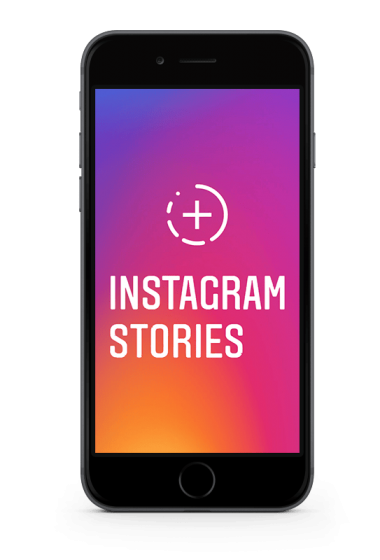
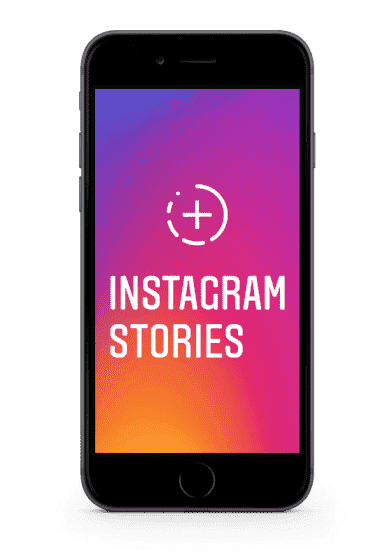
Client modification #1 + imgs compression.

diff --git a/src/index.html b/src/index.html
@@ -23,7 +23,7 @@
       <span>King Eagle</span>
     </a>
     <div class="social-media">
-      <a href="https://www.instagram.com/" target="_blank">
+      <a href="https://www.instagram.com/soufianboulhia/" target="_blank">
         <i class="fa-brands fa-instagram fa-shake instagram-icon"></i>
       </a>
       <a href="https://web.whatsapp.com/" target="_blank">
@@ -185,27 +185,27 @@
     <div class="information">
       <div class="profil">
         <img src="./images/personal-img.jpg" alt="personal-img">
-        <p>Soufiane <strong>Boul7ya</strong></p>
+        <p>Soufiane <strong>Boulhia</strong></p>
         <span>Graphic Designer</span>
       </div>
       <div class="contact-info">
         <div class="contact">
           <i class="fa-solid fa-phone phone-icon"></i>
-          <p>06 54 32 10 12</p>     
+          <p>06 39 05 74 97</p>     
         </div>
         <div class="contact">
           <i class="fa-solid fa-envelope email-icon"></i>
-          <p>soufiane.boul7ya@gmail.com</p>
+          <p>soufianeboulhia13@gmail.com</p>
         </div>
-        <div class="contact">
+        <!-- <div class="contact">
           <i class="fa-solid fa-globe website-icon"></i>
           <p>www.king-eagle.online</p>
-        </div>
+        </div> -->
       </div>
     </div>
     <!-- social media -->
     <div class="social-media">
-      <a href="https://www.instagram.com/" target="_blank">
+      <a href="https://www.instagram.com/soufianboulhia/" target="_blank">
         <i class="fa-brands fa-instagram fa-shake instagram-icon"></i>
       </a>
       <a href="https://web.whatsapp.com/" target="_blank">

diff --git a/src/scss/layout/footer.scss b/src/scss/layout/footer.scss
@@ -10,7 +10,7 @@ footer{
 
   .information{
     display: flex;
-    justify-content: space-evenly;
+    justify-content: center;
     align-items: center;
     flex-wrap: wrap;
     gap: 4rem;
@@ -33,14 +33,11 @@ footer{
     }
     .contact-info{
       display: flex;
-      justify-content: flex-start;
+      justify-content: center;
       align-items: center;
       flex-wrap: wrap;
       gap: 4rem;
-      @include breakpoint-max-width(large){
-        justify-content: center;
-        gap: 1.5rem;
-      }
+      @include breakpoint-max-width(small){gap: 1.5rem;}
 
       .contact{
         display: flex;
@@ -50,7 +47,7 @@ footer{
       }
     }
   }
-  
+
   .instagram-icon, .whatsapp-icon{font-size: 4rem;}
 }
 

diff --git a/src/scss/components/welcome.scss b/src/scss/components/welcome.scss
@@ -9,6 +9,9 @@
 
   h1, h2{text-transform: uppercase;}
 
-  h1{font-size: 7rem;}
+  h1{
+    font-size: 7rem;
+    @include breakpoint-max-width(small){font-size: 5.5rem;}
+  }
 }
 

diff --git a/src/scss/base/break-points.scss b/src/scss/base/break-points.scss
@@ -1,5 +1,5 @@
 $breakpoints: (// 1em = 16px
-  'small': 27em, //432px
+  'small': 30em, //480px
   'medium': 45em, // 720px
   'large': 62em, // 992px
   'xlarge': 70em, // 1120px

diff --git a/src/scss/base/global.scss b/src/scss/base/global.scss
@@ -28,6 +28,7 @@ ul{list-style: none;}
 h1{
   font-size: 4.5rem;
   font-weight: var(---bold);
+  @include breakpoint-max-width(small){font-size: 3.3rem;}
 }
 
 h2{
